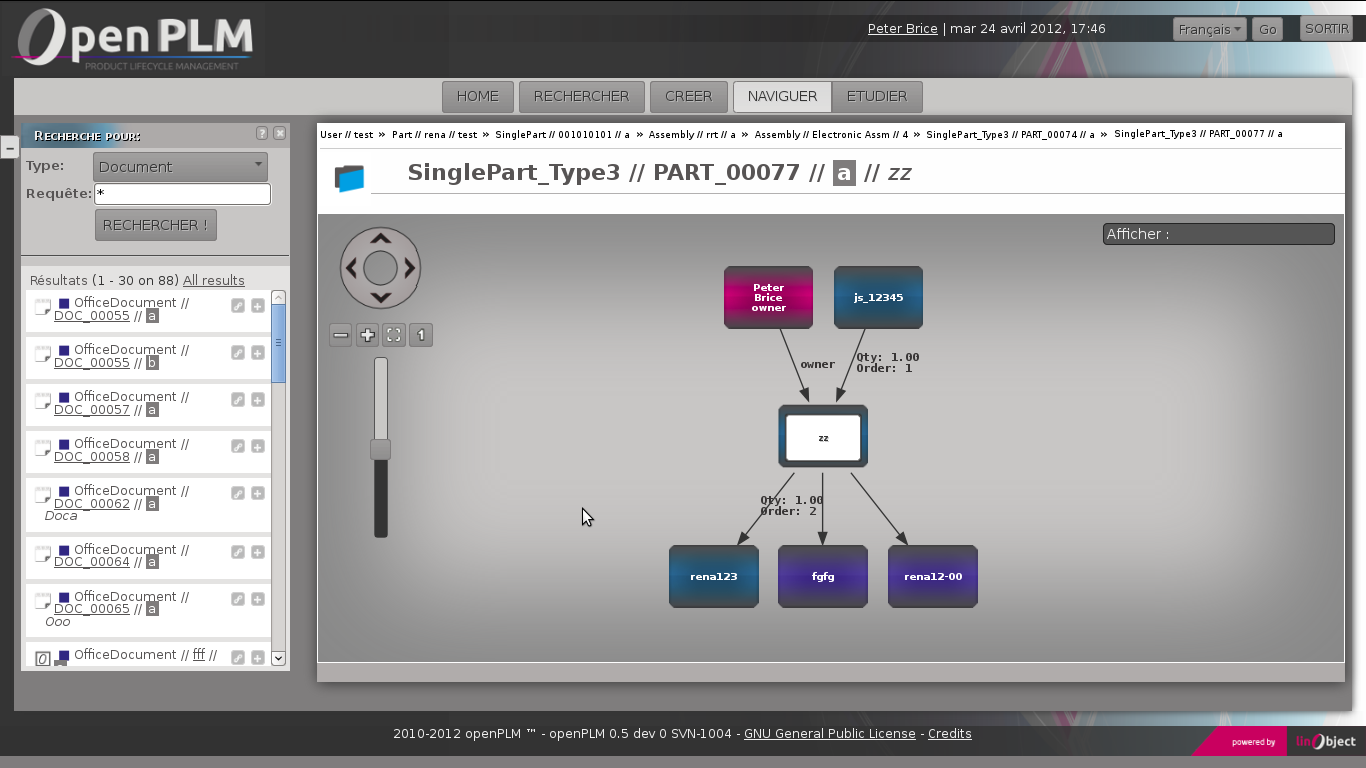
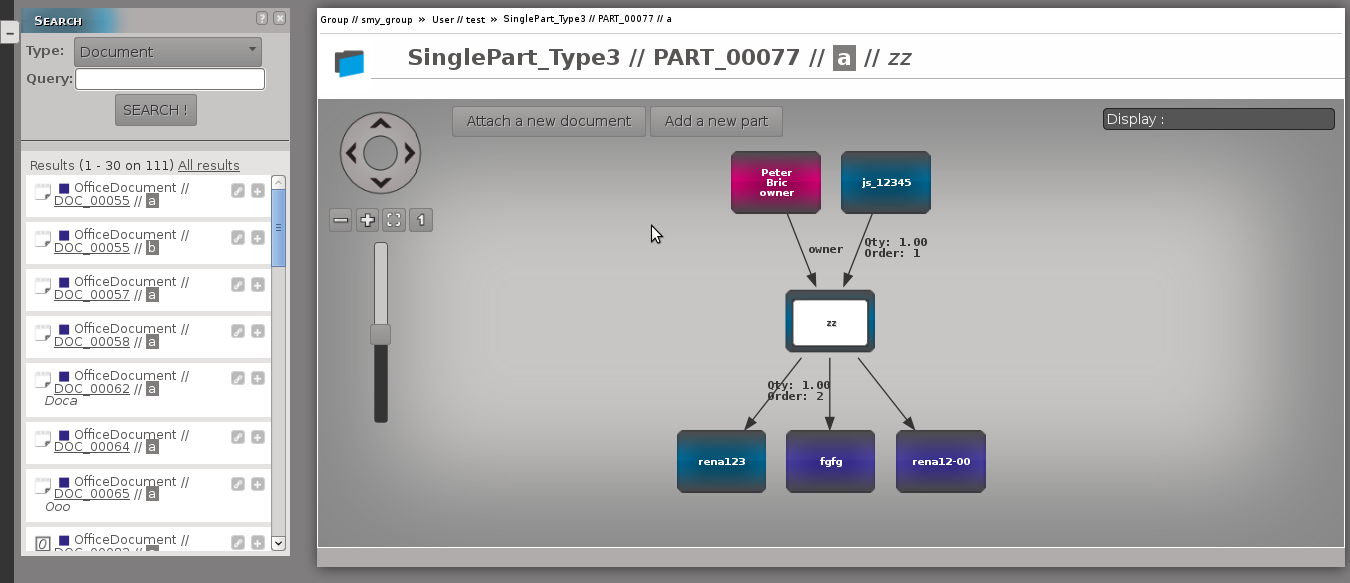
Doc (fr,en) : update navigate feature doc

diff --git a/docs/en/user/features/html/navigate.html b/docs/en/user/features/html/navigate.html
@@ -26,4 +26,10 @@
            You can use the left panel to search an object and either add it as children or link it to the current object.
 	</div>
     </div>
+    <div class="marker" id="navigate_add">
+    <div class="info">
+        If you want to create and attach (or link) a new object to 
+        the current one use the button(s) which will be displayed near here.
+    </div>
+    </div>
 </div>

diff --git a/docs/fr/_static/user_features/css/feature.css b/docs/fr/_static/user_features/css/feature.css
@@ -83,23 +83,28 @@
     left: 50%;
 }
 #navigate_current{
-    top: 18%;
+    top: 5%;
     left: 66%;
 }
 
 #navigate_box{
-    top: 34%;
-    left: 65%;
+    top: 29%;
+    left: 55%;
 }
 
 #navigate_options{
-    top: 25%;
+    top: 15%;
     left: 94%;
 }
 
 #navigate_left{
     top: 15%;
     left: 18%;
+}
+
+#navigate_add{
+    top: 15%;
+    left: 50%;
 }
 
 #study_doc_add{

diff --git a/docs/en/_static/user_features/css/feature.css b/docs/en/_static/user_features/css/feature.css
@@ -83,23 +83,28 @@
     left: 45%;
 }
 #navigate_current{
-    top: 18%;
+    top: 5%;
     left: 66%;
 }
 
 #navigate_box{
-    top: 34%;
+    top: 29%;
     left: 65%;
 }
 
 #navigate_options{
-    top: 25%;
+    top: 15%;
     left: 94%;
 }
 
 #navigate_left{
     top: 15%;
     left: 18%;
+}
+
+#navigate_add{
+    top: 15%;
+    left: 46%;
 }
 
 #study_doc_add{

diff --git a/docs/fr/user/features/html/navigate.html b/docs/fr/user/features/html/navigate.html
@@ -27,4 +27,10 @@
 	   un objet et le lier ou l'ajouter comme fils à l'objet courant.
 	</div>
     </div>
+    <div class="marker" id="navigate_add">
+    <div class="info">
+        Pour créer et lier (ou ajouter) un nouvel objet à l'objet
+        courant utilisez le(s) bouton(s) qui s'affichera(ont) ici.
+    </div>
+    </div>
 </div>
